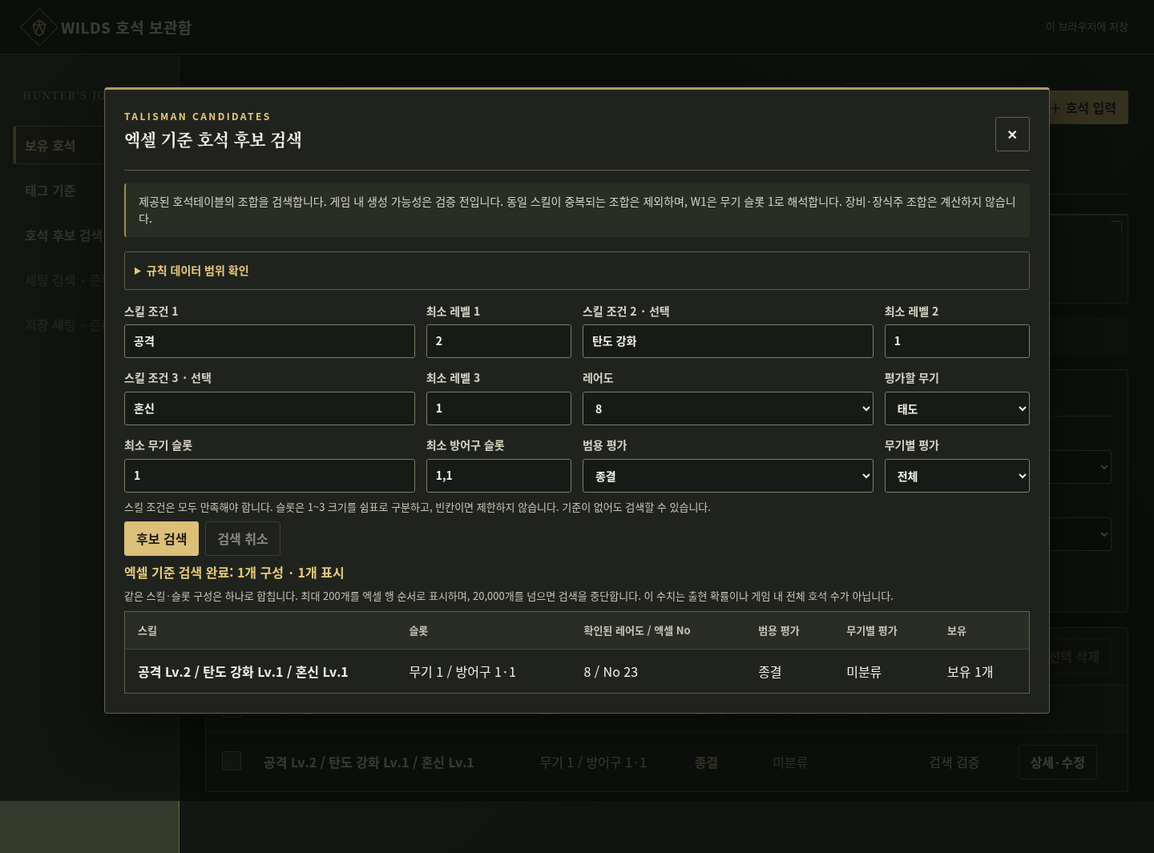
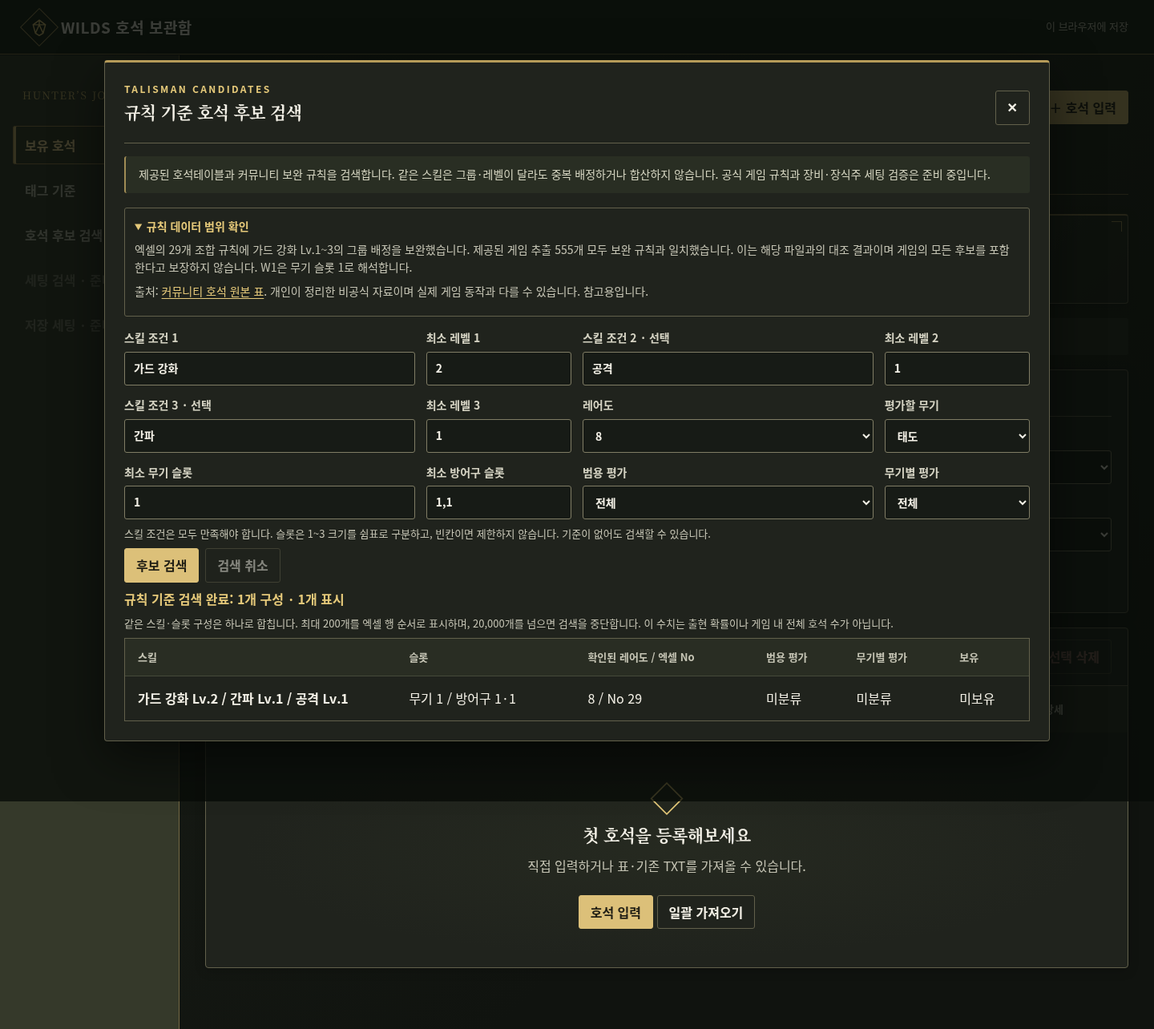
Correct Guard Up pools and document distinct-skill community rules

diff --git a/prototype/talisman-candidates.js b/prototype/talisman-candidates.js
@@ -12,6 +12,41 @@ const TalismanCandidates = (() => {
     const a = sortSlots(have), b = sortSlots(need);
     return a.length >= b.length && b.every((size, i) => a[i] >= size);
   };
+  // Exact coverage check against the documented rule set, not game validity.
+  function matchRecord(data, record) {
+    if (!record || !Array.isArray(record.skills) || record.skills.length < 1 || record.skills.length > 3 ||
+        record.skills.some(s => !s || typeof s.name !== 'string' || !Number.isInteger(s.level) || s.level < 1 || s.level > 10) ||
+        ['weaponSlots','armorSlots'].some(part => !Array.isArray(record[part]) || record[part].length > 3 || record[part].some(n => !Number.isInteger(n) || n < 1 || n > 3))) {
+      return {matches:[], reason:'invalid-record'};
+    }
+    if (new Set(record.skills.map(s => s.name)).size !== record.skills.length) return {matches:[], reason:'duplicate-skill'};
+    const entries = Object.values(data.groups).flat();
+    if (record.skills.some(s => !entries.some(e => e.name === s.name && e.level === s.level))) return {matches:[], reason:'unknown-skill-level'};
+    let groupMatch = false;
+    const matches = [];
+    const sameSlots = (a,b) => a.length === b.length && sortSlots(a).every((size,i) => size === sortSlots(b)[i]);
+    for (const recipe of data.recipes) {
+      if (recipe.groups.length !== record.skills.length) continue;
+      const used = new Set();
+      function assign(depth) {
+        if (depth === recipe.groups.length) return true;
+        const group = data.groups[String(recipe.groups[depth])];
+        for (let i=0; i<record.skills.length; i++) {
+          if (used.has(i)) continue;
+          const skill = record.skills[i];
+          if (!group.some(s => s.name === skill.name && s.level === skill.level)) continue;
+          used.add(i);
+          if (assign(depth+1)) return true;
+          used.delete(i);
+        }
+        return false;
+      }
+      if (!assign(0)) continue;
+      groupMatch = true;
+      if (recipe.slots.some(s => sameSlots(s.weaponSlots,record.weaponSlots) && sameSlots(s.armorSlots,record.armorSlots))) matches.push({recipeId:recipe.id, rarity:recipe.rarity});
+    }
+    return {matches, reason:matches.length ? 'matched' : groupMatch ? 'slot-mismatch' : 'group-mismatch'};
+  }
   function validateQuery(query, names) {
     if (!query || !Array.isArray(query.skills) || !query.skills.length || query.skills.length > 3) throw Error('스킬 조건을 1~3개 지정하세요.');
     const seen = new Set();
@@ -27,7 +62,7 @@ const TalismanCandidates = (() => {
     }
     return query;
   }
-  // Every repeated skill assignment is excluded. No unverified level summation.
+  // Community sources exclude repeated skill names across groups and levels. No summation.
   // A recipe is pruned only if an individual requested skill cannot occur in it.
   function* enumerate(data, query) {
     let examined = 0, repeated = 0;
@@ -56,6 +91,6 @@ const TalismanCandidates = (() => {
     }
     yield {kind:'progress', examined, repeated};
   }
-  return {RESULT_LIMIT, UNIQUE_LIMIT, key, slotsMeet, validateQuery, enumerate};
+  return {RESULT_LIMIT, UNIQUE_LIMIT, key, slotsMeet, matchRecord, validateQuery, enumerate};
 })();
 if (typeof module !== 'undefined') module.exports = TalismanCandidates;

diff --git a/prototype/index.html b/prototype/index.html
@@ -56,9 +56,9 @@
 <p class="table-scroll-hint">행 상태를 보려면 표를 좌우로 스크롤하세요.</p><div class="import-table-wrap"><table><caption class="sr-only">가져오기 행별 검토 결과</caption><thead><tr><th scope="col">추가</th><th scope="col">행</th><th scope="col">호석</th><th scope="col">상태</th></tr></thead><tbody id="importRows"></tbody></table></div></section>
 <div class="dialog-footer"><button type="button" id="importCancel">취소</button><button type="button" id="importApply" class="primary" disabled>선택한 0개 추가</button></div></dialog>
 <dialog id="candidateDialog" class="candidate-dialog" aria-labelledby="candidateTitle">
-<div class="dialog-heading"><div><p class="eyebrow">TALISMAN CANDIDATES</p><h2 id="candidateTitle">엑셀 기준 호석 후보 검색</h2></div><button id="candidateClose" type="button" aria-label="후보 검색 닫기">✕</button></div>
-<p class="notice">제공된 호석테이블의 조합을 검색합니다. 게임 내 생성 가능성은 검증 전입니다. 동일 스킬이 중복되는 조합은 제외하며, W1은 무기 슬롯 1로 해석합니다. 장비·장식주 조합은 계산하지 않습니다.</p>
-<details class="candidate-source"><summary>규칙 데이터 범위 확인</summary><p>엑셀의 29개 조합 규칙을 사용합니다. 제공된 게임 추출 555개 중 536개는 이 규칙과 일치했고, 19개는 엑셀에 없는 가드 강화 Lv.1~3을 포함했습니다. 현재 검색에서 가드 강화 후보는 나오지 않습니다. 실제 게임의 모든 후보를 포함한다고 보장하지 않습니다.</p></details>
+<div class="dialog-heading"><div><p class="eyebrow">TALISMAN CANDIDATES</p><h2 id="candidateTitle">규칙 기준 호석 후보 검색</h2></div><button id="candidateClose" type="button" aria-label="후보 검색 닫기">✕</button></div>
+<p class="notice">제공된 호석테이블과 커뮤니티 보완 규칙을 검색합니다. 같은 스킬은 그룹·레벨이 달라도 중복 배정하거나 합산하지 않습니다. 공식 게임 규칙과 장비·장식주 세팅 검증은 준비 중입니다.</p>
+<details class="candidate-source"><summary>규칙 데이터 범위 확인</summary><p>엑셀의 29개 조합 규칙에 가드 강화 Lv.1~3의 그룹 배정을 보완했습니다. 제공된 게임 추출 555개 모두 보완 규칙과 일치했습니다. 이는 해당 파일과의 대조 결과이며 게임의 모든 후보를 포함한다고 보장하지 않습니다. W1은 무기 슬롯 1로 해석합니다.</p><p>출처: <a href="https://docs.google.com/spreadsheets/d/1nL4GrZ2gMc5yb5zfwctMpxncRQmQ4JTl-zjvzHHxkzQ/edit" target="_blank" rel="noopener noreferrer">커뮤니티 호석 원본 표</a>. 개인이 정리한 비공식 자료이며 실제 게임 동작과 다를 수 있습니다. 참고용입니다.</p></details>
 <form id="candidateForm">
 <div class="candidate-fields">
 <label>스킬 조건 1<input id="candidateSkill1" list="skillSuggestions" required placeholder="예: 혼신"></label><label>최소 레벨 1<input id="candidateLevel1" type="number" min="1" max="10" value="1" required></label>

diff --git a/prototype/candidate-search-ui.js b/prototype/candidate-search-ui.js
@@ -78,7 +78,7 @@
         } else if (data.kind === 'complete') {
           snapshotRows = data.rows;
           showRows(snapshotRows); el('candidateResults').hidden = false;
-          el('candidateStatus').textContent = (data.truncated ? '제한 도달 · 부분 검색: 최소 ' : '엑셀 기준 검색 완료: ') + data.count.toLocaleString() + '개 구성 · ' + data.rows.length + '개 표시' + (data.count === 0 ? ' · 조건을 줄여보세요.' : '') + (data.truncated ? ' · 레어도와 스킬 조건을 더 지정하세요.' : '');
+          el('candidateStatus').textContent = (data.truncated ? '제한 도달 · 부분 검색: 최소 ' : '규칙 기준 검색 완료: ') + data.count.toLocaleString() + '개 구성 · ' + data.rows.length + '개 표시' + (data.count === 0 ? ' · 조건을 줄여보세요.' : '') + (data.truncated ? ' · 레어도와 스킬 조건을 더 지정하세요.' : '');
           stop();
         } else if (data.kind === 'error') {
           el('candidateError').textContent = data.message; el('candidateStatus').textContent = '검색하지 못했습니다.'; stop();

diff --git a/prototype/style.css b/prototype/style.css
@@ -211,3 +211,5 @@ input[type=file]::file-selector-button { padding: 7px 12px; margin-right: 12px; 
 
 .candidate-source { margin-bottom: 16px; padding: 12px; border: 1px solid var(--line); border-radius: 3px; color: var(--muted); font-size: 14px; }
 .candidate-source summary { color: var(--accent); cursor: pointer; font-weight: 700; }
+
+.candidate-source a { color: var(--accent); text-underline-offset: 3px; }

diff --git a/scripts/export_talisman_recipes.py b/scripts/export_talisman_recipes.py
@@ -2,6 +2,7 @@
 import hashlib
 import json
 import re
+import math
 from pathlib import Path
 import openpyxl
 
@@ -19,6 +20,16 @@ for n in range(1, 11):
         assert isinstance(name, str) and int(level) == level and 1 <= level <= 10
         entries.append({'name': aliases.get(name.strip(), name.strip()), 'level': int(level)})
     groups[str(n)] = entries
+overrides_path = ROOT / 'inputs/talisman-rule-overrides.json'
+overrides = json.loads(overrides_path.read_text())
+assert overrides['format'] == 'mhwilds-rule-overrides-v1'
+assert overrides['duplicateSkillPolicy']['mode'] == 'distinct-skill-names-community'
+for addition in overrides['additions']:
+    group, name, level = str(addition['group']), addition['name'], addition['level']
+    assert group in groups and isinstance(name, str) and 1 <= level <= 10
+    entry = {'name': name, 'level': level}
+    if entry not in groups[group]:
+        groups[group].append(entry)
 recipes = []
 for row in list(w['0_슬롯표'].values)[1:]:
     if not isinstance(row[0], (int, float)):
@@ -39,12 +50,14 @@ for row in list(w['0_슬롯표'].values)[1:]:
     assert slots
     recipes.append({'id': int(number), 'rarity': int(re.search(r'\d+', rarity).group()), 'groups': ids, 'slots': slots})
 assert len(recipes) == 29
-raw = sum(__import__('math').prod(len(groups[str(g)]) for g in r['groups']) for r in recipes)
+raw = sum(math.prod(len(groups[str(g)]) for g in r['groups']) for r in recipes)
 result = {'format': 'mhwilds-workbook-recipes-v1', 'source': '호석테이블.xlsx',
           'sourceSha256': hashlib.sha256(source.read_bytes()).hexdigest(),
-          'verifiedInGame': False, 'duplicateSkillPolicy': 'exclude-unverified',
+          'verifiedInGame': False, 'duplicateSkillPolicy': overrides['duplicateSkillPolicy']['mode'],
+          'overridesSha256': hashlib.sha256(overrides_path.read_bytes()).hexdigest(),
+          'ruleOverrides': overrides,
           'slotInterpretation': 'Wn=weapon; n=armor; 0=empty (workbook interpretation)',
-          'rawSkillAssignments': raw, 'rawAssignmentsWithSlots': sum(__import__('math').prod(len(groups[str(g)]) for g in r['groups']) * len(r['slots']) for r in recipes), 'groups': groups, 'recipes': recipes}
+          'rawSkillAssignments': raw, 'rawAssignmentsWithSlots': sum(math.prod(len(groups[str(g)]) for g in r['groups']) * len(r['slots']) for r in recipes), 'groups': groups, 'recipes': recipes}
 output = ROOT / 'prototype/data/talisman-recipes.json'
 output.parent.mkdir(parents=True, exist_ok=True)
 output.write_text(json.dumps(result, ensure_ascii=False, indent=2) + '\n')

diff --git a/docs/CANDIDATE-SEARCH.md b/docs/CANDIDATE-SEARCH.md
@@ -1,8 +1,8 @@
-# 엑셀 기준 호석 후보 검색
+# 규칙 기준 호석 후보 검색
 
 ## 범위
 
-전체 호석을 이용한 장비 세팅 검색의 첫 단계다. 사용자 제공 `inputs/호석테이블.xlsx`의 그룹·스킬 레벨·슬롯 조합을 검색한다. 실제 게임 전체 후보를 보장하거나 장비·장식주 세팅을 계산하는 기능은 아니다. 개인 추출 파일과 외부 시뮬레이터 코드는 배포하지 않는다.
+전체 호석을 이용한 장비 세팅 검색의 첫 단계다. 사용자 제공 `inputs/호석테이블.xlsx`의 그룹·스킬 레벨·슬롯 조합에 출처가 있는 커뮤니티 보완 규칙을 적용해 검색한다. 실제 게임 전체 후보를 보장하거나 장비·장식주 세팅을 계산하는 기능은 아니다. 개인 추출 파일과 외부 시뮬레이터 코드는 배포하지 않는다.
 
 ## 데이터 조사
 
@@ -10,8 +10,9 @@
 - 조합 규칙 29개, 스킬 배정 633,379개, 슬롯 포함 단순 전개 2,134,102개다. 고유 호석 수나 출현 확률로 해석하지 않는다.
 - 스킬 별칭은 기존 가져오기와 동일하게 정규화한다.
 - W1은 무기 슬롯 크기 1, 숫자 슬롯은 방어구 슬롯, 0은 빈칸으로 해석한다. 이는 엑셀 해석이며 공식 생성 규칙 검증은 아니다.
-- 같은 스킬을 두 번 배정한 경우는 제외한다. 허용 여부와 합산 규칙이 확인되지 않았으므로 레벨을 합산하지 않는다.
-- 사용자가 제공한 게임 추출 555행을 스킬 순열·레벨·무기/방어구 슬롯의 정확 일치로 대조했다. 536행은 엑셀 규칙으로 설명되며, 19행은 엑셀에 없는 가드 강화 Lv.1~3을 포함한다. 이 사실은 표의 불완전성을 보여주며 나머지 게임 후보의 유효성을 증명하지 않는다. 개인 호석 구성은 문서나 배포 파일에 넣지 않았다.
+- 같은 스킬명은 그룹·레벨에 관계없이 한 번만 배정하고 레벨을 합산하지 않는다. 커뮤니티 생성기와 계산기에서 교차 확인한 규칙이며 공식 명세는 아니다.
+- 가드 강화 Lv.1은 그룹 1, Lv.2는 그룹 2·4, Lv.3은 그룹 3에 보완했다. 게임 추출 555행은 원본 엑셀에서 536행만 일치했으며 보완 후 555행 모두 일치했다. 이 결과는 해당 파일의 정확한 스킬·슬롯 구성 대조이며 게임 전체 후보나 실제 레어도를 증명하지 않는다. 개인 호석 구성은 문서나 배포 파일에 넣지 않았다. 출처와 상세 검토는 [TALISMAN-RULE-AUDIT.md](TALISMAN-RULE-AUDIT.md)를 따른다.
+- 보완 후 스킬 배정 660,352개, 슬롯 포함 단순 전개 2,222,626개다. 출처와 보완 파일의 체크섬을 배포 JSON에 함께 기록한다.
 - 원본 wiki-db 시뮬레이터 HTML과 검색 JS를 열람할 수 있었다. 검색 엔진·장비·장식주 데이터의 재사용 조건과 데이터 버전은 아직 확인하지 못했다. 그 코드를 앱에 가져오지 않았다.
 
 ## 기능과 화면 흐름
@@ -32,12 +33,12 @@
 - Chromium에서 실제 워커 검색, 정확 일치 태그, 보유 수량, 빈 결과·입력 오류·취소·조건 변경·데이터 버전 변경 무효화를 확인했다.
 - 320·768·1440px에서 화면 넘침, 대화상자, Escape와 초점 복귀를 확인했다. 넓은 표는 표 영역 안에서 스크롤한다.
 - 넓은 조건에서 20,000개 제한과 200개 표시, 부분 검색 문구를 확인했다.
-- 기존 가져오기/태그 판정 테스트와 새 검색 테스트는 총 20개다.
+- 기존 가져오기/태그 판정 테스트와 새 검색 테스트는 총 23개다.
 
 ## 다음 구현 전제
 
-가드 강화의 그룹별 배정, 중복 스킬 규칙, 게임 버전을 확인하고 최신 규칙 데이터를 확보한다. 장비·장식주·세트 효과 데이터를 버전과 함께 준비한 뒤, 목표 스킬에 필요한 잔여 조건으로 호석 후보를 줄이는 장비 세팅 검색 엔진을 구현한다. 제한 도달 결과를 전체 탐색 완료로 표시하지 않는 원칙을 유지한다.
+가드 강화 배정과 동일 스킬 중복 제외는 커뮤니티 근거를 기록해 반영했다. 공식 생성 규칙과 게임 버전 검증은 계속 추적한다. 장비·장식주·세트 효과 데이터를 버전과 함께 준비한 뒤, 목표 스킬에 필요한 잔여 조건으로 호석 후보를 줄이는 장비 세팅 검색 엔진을 구현한다. 제한 도달 결과를 전체 탐색 완료로 표시하지 않는 원칙을 유지한다.
 
 ## 재생성
 
-`python scripts/export_talisman_recipes.py`로 원본 엑셀에서 배포용 JSON을 생성한다. Python `openpyxl`이 필요하며 앱 실행과 Node 테스트에는 필요하지 않다. 생성 파일의 체크섬·행 수·단순 전개 수를 테스트한다.
+`python scripts/export_talisman_recipes.py`로 원본 엑셀과 `inputs/talisman-rule-overrides.json`에서 배포용 JSON을 생성한다. Python `openpyxl`이 필요하며 앱 실행과 Node 테스트에는 필요하지 않다. 생성 파일의 체크섬·행 수·단순 전개 수를 테스트한다.

diff --git a/docs/TALISMAN-RULE-AUDIT.md b/docs/TALISMAN-RULE-AUDIT.md
@@ -1,0 +1,58 @@
+# 호석 규칙 보완 검토 — 2026-10-05
+
+## 반영 범위
+
+사용자 원본 엑셀은 수정하지 않았다. 출처가 있는 보완 규칙을 `inputs/talisman-rule-overrides.json`으로 관리하고, 배포용 JSON을 재생성할 때 함께 적용한다. 현재 범위는 **엑셀 + 커뮤니티 규칙**이며 공식 게임 명세나 모든 게임 버전을 검증한 데이터가 아니다.
+
+## 가드 강화
+
+공개 [커뮤니티 호석 원본 표](https://docs.google.com/spreadsheets/d/1nL4GrZ2gMc5yb5zfwctMpxncRQmQ4JTl-zjvzHHxkzQ/edit)의 `荒野 護石` 시트에서 다음 배정을 확인했다. 원본 표의 무기 스킬 그룹 1~4는 사용자 엑셀의 그룹 1~4에 대응한다. [공개 생성기](https://github.com/MaximilianLJ/Wilds-Charm-Gen/blob/83ce86245eb13c2c98aa94ab61559471194f5e52/charm_main.py)의 Guard Up 배정과도 일치한다. 원본 전체 소스 코드를 앱에 복사하지 않았다.
+
+| 사용자 엑셀 그룹 | 보완 스킬 | 레벨 | 원본 셀 |
+|---|---|---|---|
+| 1 | 가드 강화 | 1 | M19 |
+| 2 | 가드 강화 | 2 | N19 |
+| 3 | 가드 강화 | 3 | O19 |
+| 4 | 가드 강화 | 2 | P19 |
+
+원본 표의 주의 문구와 인용 조건을 유지한다.
+
+> 本表格為自行整理非官方資料，內容可能與實際機制略有出入，僅供參考。
+>
+> 歡迎轉載、引用，但請附上原表格連結，並保留原註記。
+
+개인이 정리한 비공식 자료이며 실제 게임 동작과 다를 수 있다는 뜻이다. 인용 시 원본 링크와 주의 문구를 유지하도록 안내한다. 출처·확인 날짜·원본 셀·다운로드 스냅샷 SHA-256은 보완 JSON과 배포 JSON에 기록했다.
+
+## 동일 스킬 중복과 합산
+
+커뮤니티 자료 두 곳에서 **스킬명 기준으로 이미 배정된 스킬을 제외**하는 처리를 확인했다.
+
+- 위 생성기의 `skill_assign`: 모든 선택 위치에서 스킬 이름을 `seen`으로 관리해 중복을 제외한다. 서로 다른 그룹·레벨인 경우도 이름이 같으면 제외한다.
+- [확률 계산기의 amuletProb.js](https://github.com/ni-null/MHWilds-Charm-Odds-Calculator/blob/90e1d852c0fa20ce3e38f36dbc679c0d105fe6dd/src/lib/amuletProb.js): `usedBaseNamesGlobal`에 있는 이름을 후속 그룹에서 제외한다. 이 도구의 [주의 문구](https://github.com/ni-null/MHWilds-Charm-Odds-Calculator/blob/90e1d852c0fa20ce3e38f36dbc679c0d105fe6dd/src/i18n/locales/en-US.json)도 실제 게임 동작과 다를 수 있음을 밝힌다.
+
+따라서 현재 검색의 중복 제외 동작을 유지하고, 근거 상태를 단순 미확정 가정에서 **커뮤니티 자료로 교차 확인한 규칙**으로 갱신했다. 레벨을 합산하지 않는다. 예를 들어 공격 Lv.1과 공격 Lv.2를 두 위치에 배정해 공격 Lv.3으로 만들지 않는다. 입력·가져오기에서도 기존 동일 스킬 중복 거부를 유지한다. 공식 규칙으로 확인한 것은 아니다.
+
+## 추출 파일 대조
+
+제공된 게임 추출 555행을 스킬의 정확한 레벨, 위치를 바꾼 그룹 배정, 무기·방어구 슬롯의 정확 일치로 비교했다.
+
+| 대조 | 원본 엑셀 | 가드 강화 보완 후 |
+|---|---:|---:|
+| 규칙과 일치 | 536 | 555 |
+| 스킬·레벨 누락 | 19 | 0 |
+| 그룹 조합 불일치 | 0 | 0 |
+| 슬롯 불일치 | 0 | 0 |
+
+555행에서 동일 스킬 중복을 발견하지 않았다. 표본에서 중복이 없다는 사실만으로 게임 전체의 중복 금지를 증명하지는 않는다. TXT에 레어도 정보가 없으므로 해당 호석의 실제 레어도까지 확인한 것은 아니다. 한 구성에 맞는 레시피·레어도는 복수일 수 있다. 개인 추출 파일과 개별 구성은 저장소·배포에 포함하지 않았다.
+
+`node scripts/audit_talisman_export.cjs /path/to/Exported_Talismans.txt`로 같은 대조를 다시 실행할 수 있다. 개인 구성은 출력하지 않고 합계만 출력한다. `TalismanCandidates.matchRecord`는 규칙 대조 함수이며 게임 유효성 판정기가 아니다.
+
+## 수량과 검증
+
+- 원본 엑셀: 스킬 배정 633,379개, 슬롯 포함 단순 전개 2,134,102개.
+- 가드 강화 보완 후: 스킬 배정 660,352개, 슬롯 포함 단순 전개 2,222,626개.
+- 위 값은 중복 스킬·위치 순열·중복 레시피를 제거하기 전 전개 수다. 고유 호석 수나 출현 확률이 아니다.
+- 단위 테스트에서 네 그룹의 가드 강화 배정, 그룹 4 기반 No.29 후보, 서로 다른 그룹·레벨의 동일 스킬 제외, 정확한 레벨·종류별 슬롯 대조와 입력 오류를 확인한다.
+- 실제 워커에서 가드 강화 Lv.1~3 검색, No.29 결과, 출처 안내와 320px 화면을 확인했다.
+
+다음 단계는 장비·장식주·세트 효과 데이터의 게임 버전과 사용 조건을 확인하고 장비 조합 검색을 구현하는 것이다. 전체 생성 규칙의 공식 검증은 계속 추적한다.

diff --git a/docs/UI-PROTOTYPE-STATUS.md b/docs/UI-PROTOTYPE-STATUS.md
@@ -6,10 +6,12 @@
 
 태그 기준 `.xlsx` 파일의 `태그기준` 시트를 읽어 헤더·스킬명·슬롯·우선순위·수식 셀을 검증한다. 전체 교체 또는 기준 ID 병합을 선택하고 추가·변경·삭제 및 보유 호석의 태그 변동 수를 확인한 뒤 적용한다. 공통과 선택 무기의 자동 평가를 각각 계산하며, 필터·정렬과 상세 근거에 반영한다. 기준과 보유 호석을 하나의 localStorage 값으로 저장해 적용 도중 부분 상태가 남지 않도록 한다. 새 JSON 백업은 둘 다 포함하며 이전 형식의 호석 백업도 읽는다.
 
-클라우드 Chromium에서 기준 엑셀 업로드·미리보기·적용, 공통/무기별 판정, 필터, 재방문 후 저장 유지, 호석 수정 후 재판정, 수식 셀 업로드 거부와 기존 기준 보존, JSON 백업·복원을 검증했다. 일괄 가져오기는 표 붙여넣기, TXT 읽기, 중복 선택, 오류 차단, 다른 탭 변경 감지, 키보드 초점 복귀, 320/768/1024/1440px 배치를 확인했다. Node 단위 테스트는 후보 검색을 포함해 20개가 통과했다. Windows 실기기 검증은 아직 하지 않았다.
+클라우드 Chromium에서 기준 엑셀 업로드·미리보기·적용, 공통/무기별 판정, 필터, 재방문 후 저장 유지, 호석 수정 후 재판정, 수식 셀 업로드 거부와 기존 기준 보존, JSON 백업·복원을 검증했다. 일괄 가져오기는 표 붙여넣기, TXT 읽기, 중복 선택, 오류 차단, 다른 탭 변경 감지, 키보드 초점 복귀, 320/768/1024/1440px 배치를 확인했다. Node 단위 테스트는 후보 검색을 포함해 23개가 통과했다. Windows 실기기 검증은 아직 하지 않았다.
 
 게임 내 호석 생성 가능 여부, 장비 세팅 검색과 Windows 배포는 아직 구현되지 않았다. 스킬명 목록은 제공된 원본 호석 표에서 가져왔으며 실제 게임 데이터의 완전성을 검증한 목록은 아니다.
 
 게임 추출 TXT(사용자 첨부 555행)를 파일 선택과 드롭으로 읽고, 오류·미확인 스킬 0개와 동일 구성 1개를 확인했다. 중복 포함 555개 저장·새로고침 유지, 엑셀 드롭·적용, JSON 드롭·복원, 잘못된 확장자·여러 파일·크기 초과·잘못된 행 거부를 Chromium에서 확인했다. 느린 파일 읽기 도중 새 파일 선택·텍스트 수정·대화상자 닫기를 했을 때 이전 읽기가 덮어쓰지 않는 것도 확인했다. 개인 추출 파일은 저장소에 포함하지 않는다.
 
-메뉴의 엑셀 기준 호석 후보 검색을 구현했다. 스킬·레벨·레어도·슬롯·태그 조건, 공통/무기 평가·보유 수량, 취소·부분 검색 제한을 지원한다. 실제 워커와 빈 결과·입력 오류·상태 변경 무효화를 Chromium에서 확인했다. 게임 전체 후보 및 장비 세팅 검색은 아니며, 데이터 누락과 검증 상태는 `CANDIDATE-SEARCH.md`를 따른다.
+메뉴의 규칙 기준 호석 후보 검색을 구현했다. 스킬·레벨·레어도·슬롯·태그 조건, 공통/무기 평가·보유 수량, 취소·부분 검색 제한을 지원한다. 실제 워커와 빈 결과·입력 오류·상태 변경 무효화를 Chromium에서 확인했다. 게임 전체 후보 및 장비 세팅 검색은 아니며, 데이터 누락과 검증 상태는 `CANDIDATE-SEARCH.md`를 따른다.
+
+커뮤니티 출처로 가드 강화 그룹 배정을 보완하고, 같은 스킬명 중복 배정·합산 제외의 근거를 기록했다. 보완 규칙과 실제 추출 555행의 구성이 모두 일치했다. 게임 전체 생성 가능성 및 실제 레어도 검증은 아니며 `TALISMAN-RULE-AUDIT.md`를 참고한다.

diff --git a/HANDOFF.md b/HANDOFF.md
@@ -3,6 +3,7 @@
 작성 기준: 2026-10-02. 이 문서는 대화의 작업 맥락을 요약한 인계 문서이며 전체 대화 로그는 아니다. 클라우드 대화 세션 자체는 이전되지 않는다.
 
 ## 클라우드 개발 갱신
+- 2026-10-05 가드 강화 Lv.1(그룹1), Lv.2(그룹2·4), Lv.3(그룹3)을 커뮤니티 원본 표와 생성기로 확인해 별도 보완 JSON에 반영했다. 동일 스킬명은 다른 그룹·레벨에도 중복 배정·합산하지 않는 처리를 두 커뮤니티 구현에서 확인했다. 보완 후 실제 추출 555개 모두 규칙과 일치했다. 공식 게임 명세 검증과 실제 레어도 검증을 뜻하지 않는다. 출처·주의 문구는 docs/TALISMAN-RULE-AUDIT.md. Node 테스트 23개 통과. 원본 엑셀과 개인 추출 파일은 변경하거나 배포하지 않았다.
 - 2026-10-05 엑셀 기준 호석 후보 검색을 추가했다. 워커 검색·취소, 스킬/레벨/레어도/종류별 슬롯/평가 필터, 보유 수량과 200개 표시·20,000개 부분 검색 제한을 검증했다. 전체 Node 테스트 20개 통과. 실제 추출 555개 중 536개가 엑셀과 일치하며 나머지 19개는 누락된 가드 강화 Lv.1~3을 포함한다. 상세 범위는 docs/CANDIDATE-SEARCH.md. 장비·장식주 세팅 검색과 게임 전체 생성 규칙 검증은 아직이다.
 - 2026-10-05 사용자가 제공한 와일즈 공식 웹 매뉴얼 HTML의 내장 CSS를 확인해 어두운 배경·올리브 메뉴·금색 프레임·명조 제목으로 개편했다. 네이버페이 방향을 대체하며 향후 UI 기준은 docs/UI-DESIGN-GUIDE.md를 따른다. 첨부 이미지 폴더는 없으며 원본 스크립트나 자산은 사용하지 않았다.
 - GitHub Pages 자동 배포 워크플로를 추가했다. 구문 검사·단위 테스트 후 `prototype/`만 공개한다. 최초 Pages Source를 GitHub Actions로 설정하는 방법은 `docs/GITHUB-PAGES.md`에 있다. 클라우드의 GitHub 설정 API 접근이 제한돼 Pages 활성화와 최초 활성화 당시에는 실제 배포 성공을 확인하지 못했으나 이후 Pages 배포 성공과 공개 사이트 접속을 확인했다.

diff --git a/prototype/README.md b/prototype/README.md
@@ -16,4 +16,4 @@ UI 작업용 `ui-ux-pro-max` 스킬은 `.agents/skills/ui-ux-pro-max/`에 포함
 
 엑셀 압축 해제에는 함께 포함한 fflate 0.8.2를 사용합니다. 라이선스는 `vendor/fflate-LICENSE`에 있습니다. 단위 테스트는 `node --test tests/*.test.cjs`로 실행합니다.
 
-메뉴의 호석 후보 검색은 엑셀의 29개 규칙을 Web Worker에서 검색하고 평가·보유 수량을 표시합니다. HTTP(S) 실행이 필요합니다. 가드 강화 누락과 동일 스킬 중복 규칙 미확정 때문에 게임 전체 후보를 보장하지 않습니다. 장비 세팅 검색은 별도 미구현입니다. 상세 범위는 `docs/CANDIDATE-SEARCH.md`를 참고하세요.
+메뉴의 호석 후보 검색은 엑셀의 29개 규칙을 Web Worker에서 검색하고 평가·보유 수량을 표시합니다. HTTP(S) 실행이 필요합니다. 가드 강화 그룹 배정을 커뮤니티 표로 보완했고 같은 스킬명은 중복 배정하거나 합산하지 않습니다. 보완 후 추출 555개가 규칙과 일치하지만 공식 명세·게임 전체 후보를 보장하는 것은 아닙니다. 출처는 `docs/TALISMAN-RULE-AUDIT.md`에 있습니다. 장비 세팅 검색은 별도 미구현입니다. 상세 범위는 `docs/CANDIDATE-SEARCH.md`를 참고하세요.

diff --git a/docs/previews/README.md b/docs/previews/README.md
@@ -10,4 +10,4 @@
 - [호석 후보 검색 데스크톱](candidate-search-desktop.png)
 - [호석 후보 검색 모바일](candidate-search-mobile.png)
 
-후보 검색 데스크톱은 입력한 예시 호석·예시 평가 기준으로 조회한 결과이며, 모바일은 취소 상태다. 개인 게임 추출 데이터를 사용한 화면이 아니다.
+후보 검색 화면은 가드 강화 보완 규칙을 임시 검색 조건으로 조회한 결과다. 데스크톱은 No.29 후보와 출처 안내, 모바일은 Lv.3 검색을 보여준다. 개인 게임 추출 데이터를 사용한 화면이 아니다.
